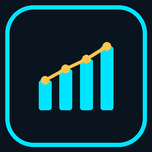
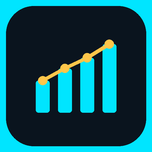
Ícone do iPad: borda ciano na borda do ícone, sem contorno escuro (v3.6.391)
O iOS recorta o ícone com os cantos dele; havia uma faixa escura fora da
borda ciano, que virava um contorno escuro em volta, e a curva da borda
não acompanhava a do iPad. Agora a imagem inteira é ciano até a borda (o
recorte do iOS vira a borda de fora) e o fundo escuro por dentro acompanha
a mesma curva (raio ≈ 22,4%). apple-touch-icon ?v=7.

Claude-Session: https://claude.ai/code/session_01CyFDDBNtsxNpwCPgMjywmW

diff --git a/index.html b/index.html
@@ -18,18 +18,18 @@
 <meta name="apple-mobile-web-app-status-bar-style" content="default">
 <meta name="apple-mobile-web-app-title" content="Finanças">
 <link rel="manifest" href="manifest.json?v=5">
-<link rel="apple-touch-icon" href="apple-touch-icon.png?v=6">
-<link rel="apple-touch-icon" sizes="180x180" href="apple-touch-icon-180.png?v=6">
-<link rel="apple-touch-icon" sizes="167x167" href="apple-touch-icon-167.png?v=6">
-<link rel="apple-touch-icon" sizes="152x152" href="apple-touch-icon-152.png?v=6">
-<link rel="apple-touch-icon-precomposed" href="apple-touch-icon-precomposed.png?v=6">
+<link rel="apple-touch-icon" href="apple-touch-icon.png?v=7">
+<link rel="apple-touch-icon" sizes="180x180" href="apple-touch-icon-180.png?v=7">
+<link rel="apple-touch-icon" sizes="167x167" href="apple-touch-icon-167.png?v=7">
+<link rel="apple-touch-icon" sizes="152x152" href="apple-touch-icon-152.png?v=7">
+<link rel="apple-touch-icon-precomposed" href="apple-touch-icon-precomposed.png?v=7">
 <!-- ícone da aba: desenhado para tamanhos pequenos (o de 192 px reduzido perdia a borda) -->
 <link rel="icon" href="favicon.ico?v=8" sizes="16x16 32x32 48x48">
 <link rel="icon" type="image/svg+xml" href="favicon.svg?v=8">
 <link rel="icon" type="image/png" sizes="32x32" href="favicon-32.png?v=8">
 <meta name="color-scheme" content="dark">
 <title>Muller Mendes</title>
-<link rel="stylesheet" href="css/style.css?v=3.6.390">
+<link rel="stylesheet" href="css/style.css?v=3.6.391">
 </head>
 <body>
 
@@ -95,17 +95,17 @@
 <script src="js/vendor/chart.umd.min.js"></script>
 
 <!-- módulos do sistema — ordem importa: cada um usa o anterior -->
-<script src="js/bloqueio.js?v=3.6.390"></script>
-<script src="js/armazenamento.js?v=3.6.390"></script>
-<script src="js/financeiro.js?v=3.6.390"></script>
-<script src="js/investimentos.js?v=3.6.390"></script>
-<script src="js/graficos.js?v=3.6.390"></script>
-<script src="js/extrato.js?v=3.6.390"></script>
-<script src="js/relatorio.js?v=3.6.390"></script>
-<script src="js/cotacoes.js?v=3.6.390"></script>
-<script src="js/sincronizacao.js?v=3.6.390"></script>
-<script src="js/emojis.js?v=3.6.390"></script>
-<script src="js/app.js?v=3.6.390"></script>
+<script src="js/bloqueio.js?v=3.6.391"></script>
+<script src="js/armazenamento.js?v=3.6.391"></script>
+<script src="js/financeiro.js?v=3.6.391"></script>
+<script src="js/investimentos.js?v=3.6.391"></script>
+<script src="js/graficos.js?v=3.6.391"></script>
+<script src="js/extrato.js?v=3.6.391"></script>
+<script src="js/relatorio.js?v=3.6.391"></script>
+<script src="js/cotacoes.js?v=3.6.391"></script>
+<script src="js/sincronizacao.js?v=3.6.391"></script>
+<script src="js/emojis.js?v=3.6.391"></script>
+<script src="js/app.js?v=3.6.391"></script>
 <script>
   // registra o service worker (só funciona via http/https — no iPad, depois de publicado)
   if ("serviceWorker" in navigator && location.protocol.indexOf("http") === 0) {

diff --git a/sw.js b/sw.js
@@ -1,12 +1,12 @@
 /* Service worker — deixa o app abrir sem internet no iPad/iPhone.
    Arquivos do app: cache primeiro. Cotações (APIs): sempre rede. */
-const CACHE = "muller-mendes-v609";
+const CACHE = "muller-mendes-v610";
 const ARQUIVOS = [
-  "./", "./index.html", "./css/style.css?v=3.6.390", "./manifest.json", "./manifest.webmanifest",
+  "./", "./index.html", "./css/style.css?v=3.6.391", "./manifest.json", "./manifest.webmanifest",
   "./js/vendor/chart.umd.min.js",
-  "./js/bloqueio.js?v=3.6.390", "./js/armazenamento.js?v=3.6.390", "./js/financeiro.js?v=3.6.390", "./js/investimentos.js?v=3.6.390",
-  "./js/graficos.js?v=3.6.390", "./js/extrato.js?v=3.6.390", "./js/relatorio.js?v=3.6.390", "./js/vendor/pdf.min.js", "./js/vendor/pdf.worker.min.js", "./js/cotacoes.js?v=3.6.390", "./js/sincronizacao.js?v=3.6.390", "./js/emojis.js?v=3.6.390", "./js/app.js?v=3.6.390",
-  "./assets/icons/bancos/nubank.svg?v=3.6.390", "./assets/icons/bancos/itau.svg?v=3.6.390", "./assets/icons/bancos/inter.svg?v=3.6.390", "./assets/icons/bancos/banco-do-brasil.svg?v=3.6.390", "./assets/icons/bancos/caixa.svg?v=3.6.390", "./assets/icons/bancos/mercado-pago.svg?v=3.6.390",
+  "./js/bloqueio.js?v=3.6.391", "./js/armazenamento.js?v=3.6.391", "./js/financeiro.js?v=3.6.391", "./js/investimentos.js?v=3.6.391",
+  "./js/graficos.js?v=3.6.391", "./js/extrato.js?v=3.6.391", "./js/relatorio.js?v=3.6.391", "./js/vendor/pdf.min.js", "./js/vendor/pdf.worker.min.js", "./js/cotacoes.js?v=3.6.391", "./js/sincronizacao.js?v=3.6.391", "./js/emojis.js?v=3.6.391", "./js/app.js?v=3.6.391",
+  "./assets/icons/bancos/nubank.svg?v=3.6.391", "./assets/icons/bancos/itau.svg?v=3.6.391", "./assets/icons/bancos/inter.svg?v=3.6.391", "./assets/icons/bancos/banco-do-brasil.svg?v=3.6.391", "./assets/icons/bancos/caixa.svg?v=3.6.391", "./assets/icons/bancos/mercado-pago.svg?v=3.6.391",
   "./assets/icons/icon-192.png", "./assets/icons/icon-512.png",
   "./favicon.ico", "./favicon.svg", "./favicon-32.png", "./apple-touch-icon.png", "./apple-touch-icon-180.png", "./apple-touch-icon-167.png", "./apple-touch-icon-152.png", "./apple-touch-icon-precomposed.png"
 ];

diff --git a/js/app.js b/js/app.js
@@ -23,7 +23,7 @@
   // Categorias fixas usadas nos formulários (conforme especificação)
   // a cada atualização, suba este número junto com o ?v= do index.html e do sw.js:
   // é a mudança dele que faz o iPad baixar a versão nova
-  const VERSAO_APP = "3.6.390";
+  const VERSAO_APP = "3.6.391";
   // nome do programa (título, logotipo, rodapé e tela da senha), escolhido em
   // Configurações › Senha Acesso; vale só para este aparelho
   const NOMES_APP = ["Muller Mendes", "Mateus Mendes", "Michel Mendes"];

diff --git a/desktop/build/gerar-icones.py b/desktop/build/gerar-icones.py
@@ -13,12 +13,12 @@ PADRAO = dict(w=0.09, g=0.056, base=0.74, topos=[0.53, 0.45, 0.38, 0.29], linha=
 # favicon: barras e linha bem maiores, ocupando o quadrado (como os outros ícones da barra do navegador)
 COMPACTO = dict(w=0.155, g=0.05, base=0.86, topos=[0.6, 0.47, 0.36, 0.22], linha=0.075, ponto=0.085, raio_barra=0.03)
 
-def desenhar(S, margem, raio, borda, fundo_total=False, escala_conteudo=1.0, layout=PADRAO):
+def desenhar(S, margem, raio, borda, fundo_total=False, escala_conteudo=1.0, layout=PADRAO, cor_fundo=FUNDO):
     """S: tamanho final; margem/raio/borda: frações de S.
     fundo_total: pinta o quadrado inteiro de escuro (iPhone/iPad e maskable).
     escala_conteudo: encolhe o desenho todo (para a área segura do maskable)."""
     T = S * SS
-    im = Image.new("RGBA", (T, T), FUNDO if fundo_total else (0, 0, 0, 0))
+    im = Image.new("RGBA", (T, T), cor_fundo if fundo_total else (0, 0, 0, 0))
     d = ImageDraw.Draw(im)
     # o "cartão" com borda, centrado
     lado = T * (1 - 2 * margem) * escala_conteudo
@@ -52,8 +52,11 @@ def desenhar(S, margem, raio, borda, fundo_total=False, escala_conteudo=1.0, lay
 raiz, desk = sys.argv[1], sys.argv[2]
 # programa (Windows) e ícones do navegador: cartão com cantos transparentes
 normal = lambda S: desenhar(S, margem=0.05, raio=0.21, borda=0.03)
-# iPhone/iPad: o iOS arredonda sozinho e não aceita transparência → fundo inteiro
-ios = lambda S: desenhar(S, margem=0.035, raio=0.2, borda=0.03, fundo_total=True)
+# iPhone/iPad: o iOS recorta o ícone com os cantos dele (≈22,4% do lado) e não
+# aceita transparência. A imagem inteira é ciano e o recorte do iOS vira a
+# borda de fora; por dentro, o fundo escuro acompanha a mesma curva.
+# (Antes havia uma faixa escura fora da borda, que virava um contorno escuro.)
+ios = lambda S: desenhar(S, margem=0.0, raio=0.2237, borda=0.04, fundo_total=True, cor_fundo=CIANO)
 # maskable (Android): o desenho dentro da área segura (círculo de 80%)
 mask = lambda S: desenhar(S, margem=0.0, raio=0.21, borda=0.03, fundo_total=True, escala_conteudo=0.74)
 
